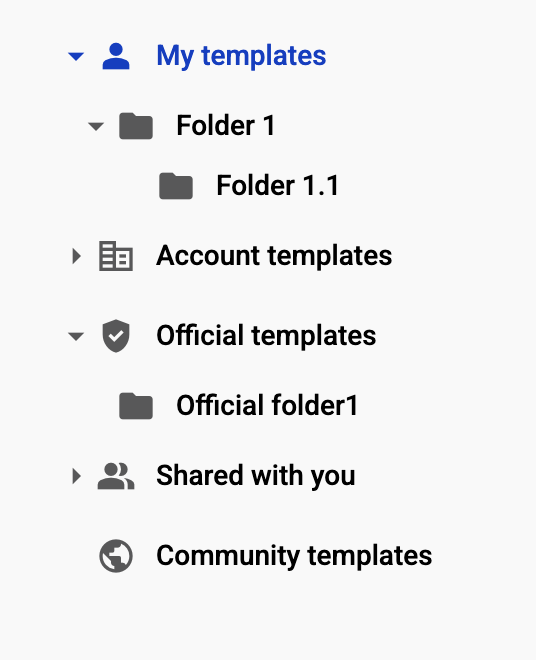
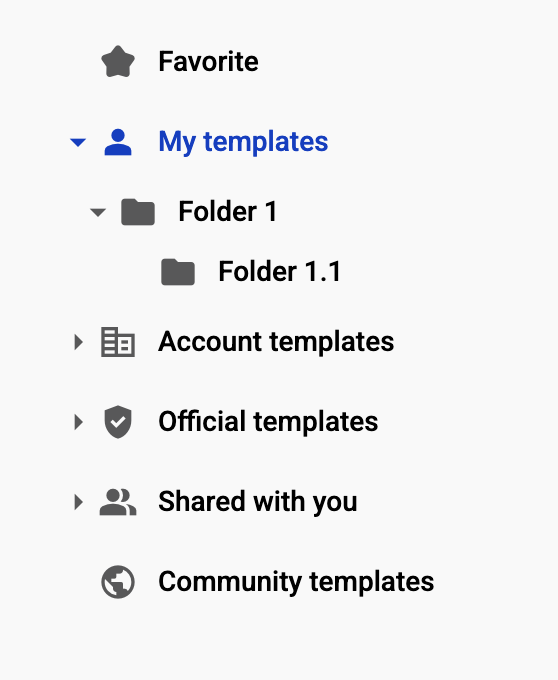
Updated documentation and screenshot regarding Favorite catgory

diff --git a/docs/source/pages/howToWorkWithPlatform/mainApplication/templateList/templateListPage/templateListPage.rst b/docs/source/pages/howToWorkWithPlatform/mainApplication/templateList/templateListPage/templateListPage.rst
@@ -13,19 +13,19 @@ Template list page is the library of the templates created by mailboxes.
    :width: 300
    :align: center
 
-2. In addition, there are four other categories accessible via the menu on the left side of the page. Each category allows users to create folders and subfolders, which are displayed in an expandable tree structure
+2. In addition, there are five other categories accessible via the menu on the left side of the page. Each category allows users to create folders and subfolders, which are displayed in an expandable tree structure
 
 .. image:: pic_templateListPage/categories.png
    :width: 300
    :align: center
 
-3. In the "Account templates" category, all templates with "Account" access level will be displayed
+* The "Favorites" category displays all templates that were marked as favorite using the star icon or via the action menu on the template list.
+* In the "Account templates" category, all templates with "Account" access level will be displayed
+* In the "Official templates" category, all templates with "Official" access level will be displayed.
+* In the "Shared with you" category, all templates that have been explicitly shared with the current mailbox will be displayed.
+* In the "Community templates" category, it is possible to find templates with "Public" access via search.
 
-In the "Official templates" category, all templates with "Official" access level will be displayed.
-In the "Shared with you" category, all templates that have been explicitly shared with the current mailbox will be displayed.
-In the "Community templates" category, it is possible to find templates with "Public" access via search.
-
-4. Each folder can be renamed, deleted, or moved to any other existing folder or to a newly created folder
+3. Each folder can be renamed, deleted, or moved to any other existing folder or to a newly created folder
 
 .. image:: pic_templateListPage/categoryFolderMenu.png
    :width: 300
@@ -34,7 +34,8 @@ In the "Community templates" category, it is possible to find templates with "Pu
 How template looks like
 =======================
 
-Template is the rectangle tile on the template list page with template name, access level and creation date below tile. Each template has preview for better user experience within searching or choosing template to use. There are three types of template preview available:
+Template is the rectangle tile on the template list page with template name, access level, and creation date below the tile. Each template has a preview for better user experience when searching or choosing a template to use. A star icon is also available on each template tile, allowing the user to add or remove the template from the Favorite category. 
+There are two types of template preview available:
 
 1. Default image of the template. If template contains only external documents inside system can't use them as preview, so in this case preview of template would be default icon of template
 
@@ -42,7 +43,7 @@ Template is the rectangle tile on the template list page with template name, acc
    :width: 300
    :align: center
 
-2. First page of the document. Template with at least one structured document inside has preview, as preview of the document system takes first page of the first structured document in template
+2. First page of the document. A template that contains at least one structured document or a PDF file will display a preview. The system uses the first page of the first structured document or the attached PDF in the template as the preview.
 
 .. image:: pic_templateListPage/previewStructuredDocument.png
    :width: 300
@@ -51,13 +52,14 @@ Template is the rectangle tile on the template list page with template name, acc
 3. Custom image of the template. User is able to upload custom image for template preview. How to do that described in :ref:`respective section <templatePropertyTemplate>`
 
 4. Each template has its own menu that allows the following actions:
+- Add to favorites / Remove from favorites
 - Edit the template
 - Copy the template UUID
 - Clone the template
 - Move the template to another category/folder
 - Rename the template
 - Delete the template
-- Get a direct link to the template
+- Get a direct link to the template (under specific template settings)
 
 .. image:: pic_templateListPage/templateMenu.png
    :width: 300
